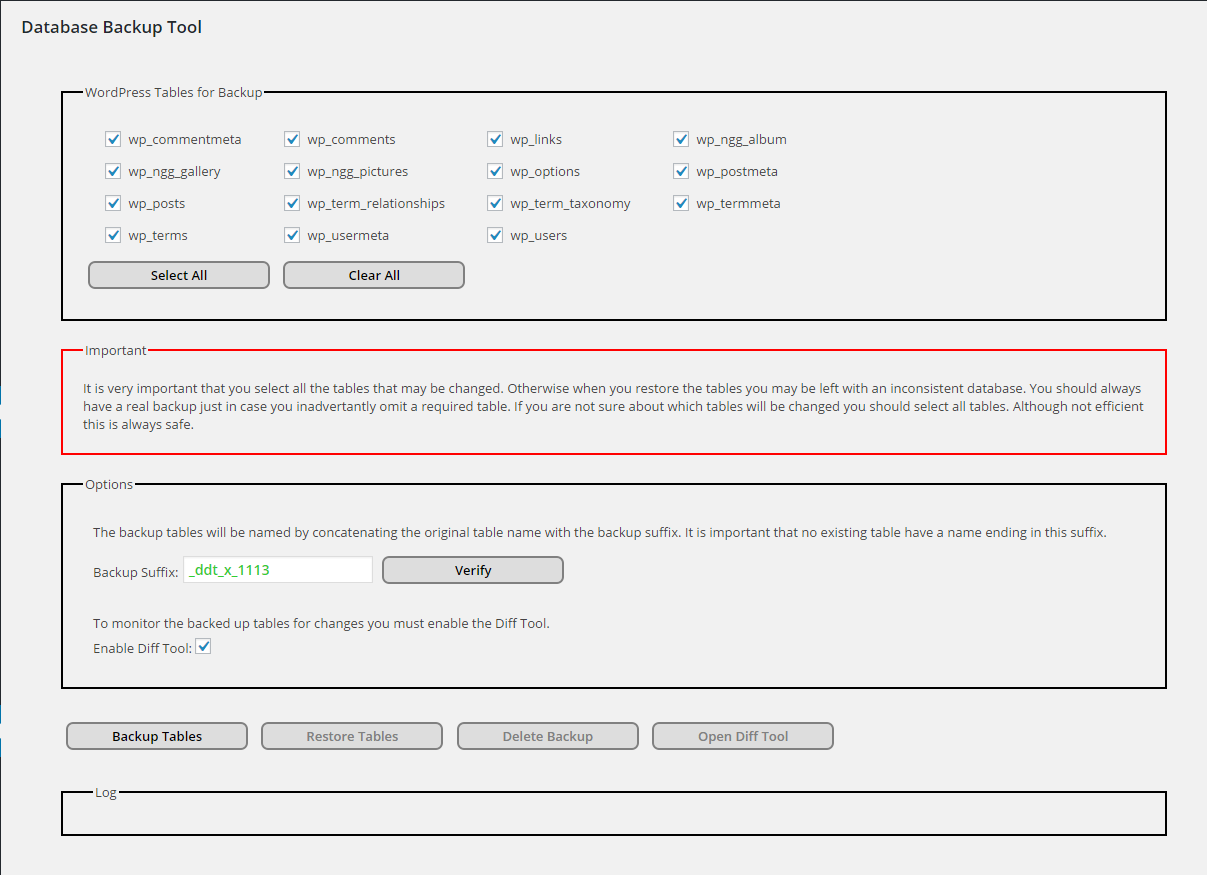
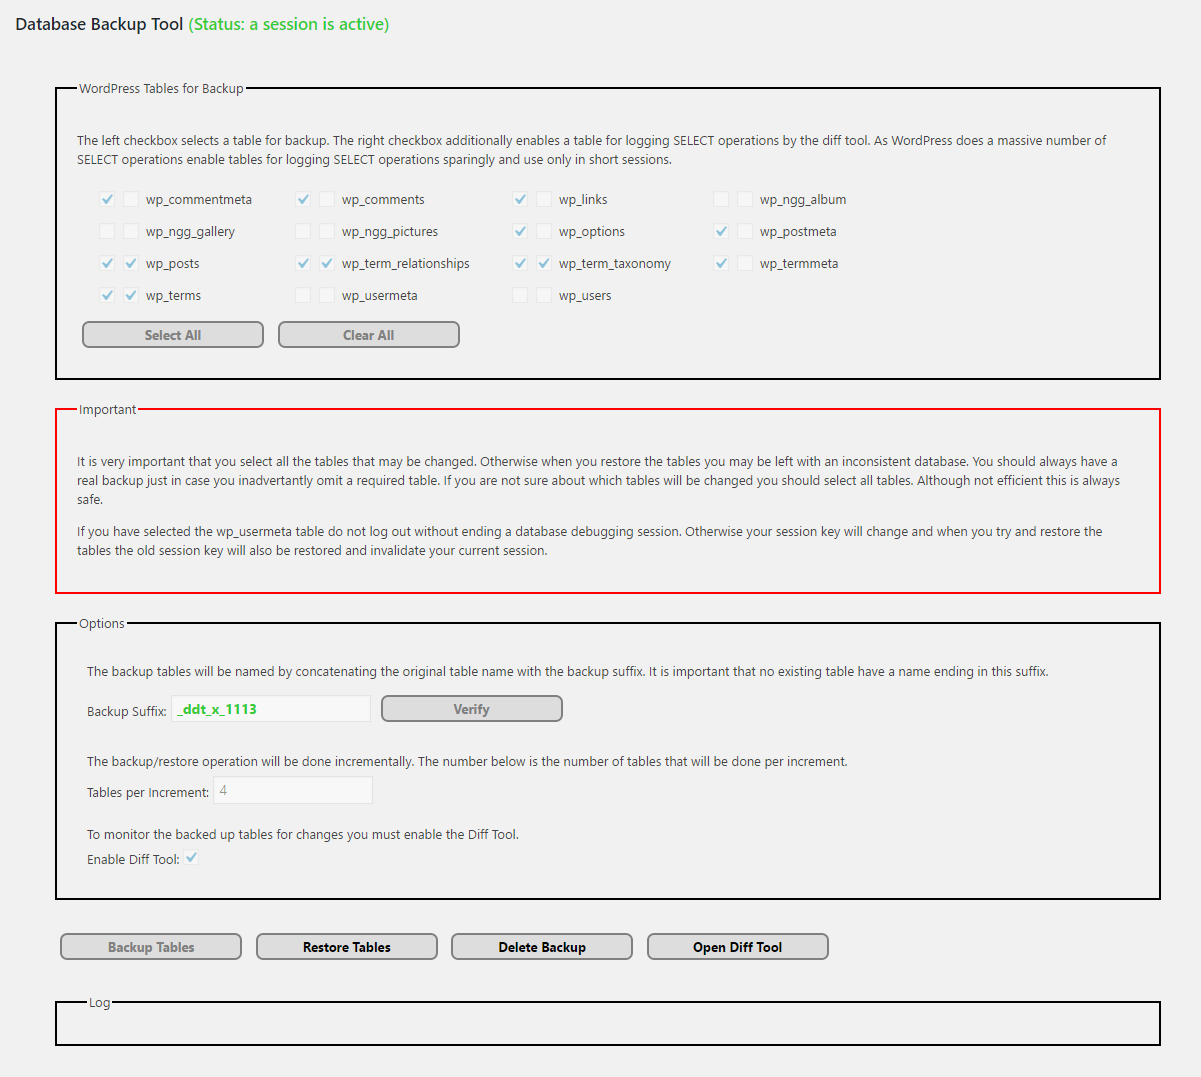
update images

Changed region(s): [[0.0, 0.0, 0.9858, 0.8023], [0.0308, 0.8331, 0.9858, 0.9566]]

diff --git a/wp-db-backup.php b/wp-db-backup.php
@@ -161,7 +161,7 @@ function ddt_emit_backup_page( ) {
         <?php echo $backup_tables ? ' disabled' : ''; echo $backup_suffix_ok ? '' : ' style="display:none;"'; ?>>
         <legend>WordPress Tables for Backup</legend>
         <p>The left checkbox selects a table for backup. The right checkbox additionally enables a table for logging SELECT operations by the diff tool.
-        As WordPress does a massive number of SELECT operations enable tables for logging SELECT operations sparingly.</p>
+        As WordPress does a massive number of SELECT operations enable tables for logging SELECT operations sparingly and use only in short sessions.</p>
         <table class="ddt_x-table_table">
 <?php
     # create a HTML input element embedded in a HTML td element for each database table
@@ -298,7 +298,6 @@ function ddt_check_status( $check_only = FALSE ) {
     if ( !($request = ddt_get_status( 'request' ) ) ) {
         return TRUE;
     }
-    error_log( 'ddt_check_status():$request=' . print_r( $request, true ) );
     $suffix = ddt_get_options( )[ 'ddt_x-orig_suffix' ];
     if ( $request[ 'action' ] === 'mc_backup_tables' ) {
         $tables_to_do     = ddt_get_status( 'tables to do'     );

diff --git a/wp-db-diff.php b/wp-db-diff.php
@@ -309,7 +309,6 @@ function ddt_wp_db_diff_init( ) {
             ) ) {
                 # SELECT operation with JOIN
                 error_log( 'TODO::SELECT with JOIN:$last_query=' . $last_query );
-                error_log( 'TODO::SELECT with JOIN:$matches=' . print_r( $matches, true ) );
                 $tables = $matches[ 2 ];
                 $tables = preg_replace( ['#\s*(,|\s((CROSS|INNER|OUTER|LEFT\s+OUTER|RIGHT\s+OUTER)\s+)?JOIN\s)\s*#is', '#\s+AS\s+#is' ], [ ',', ' ' ], $tables );
                 $tables = explode( ',', $tables );
@@ -354,8 +353,8 @@ function ddt_wp_db_diff_init( ) {
                             # all columns of all tables are selected
                             return '*';
                         }
-                        error_log( 'TODO::SELECT with JOIN:NO TABLE QUALIFIER:' . $last_query );
                         foreach ( $table_names as $table_name ) {
+                            # find corresponding primary key for a selected column
                             ddt_doing_my_query( TRUE );
                             $columns = $wpdb->get_col( "show columns from $table_name" );
                             ddt_doing_my_query( FALSE );
